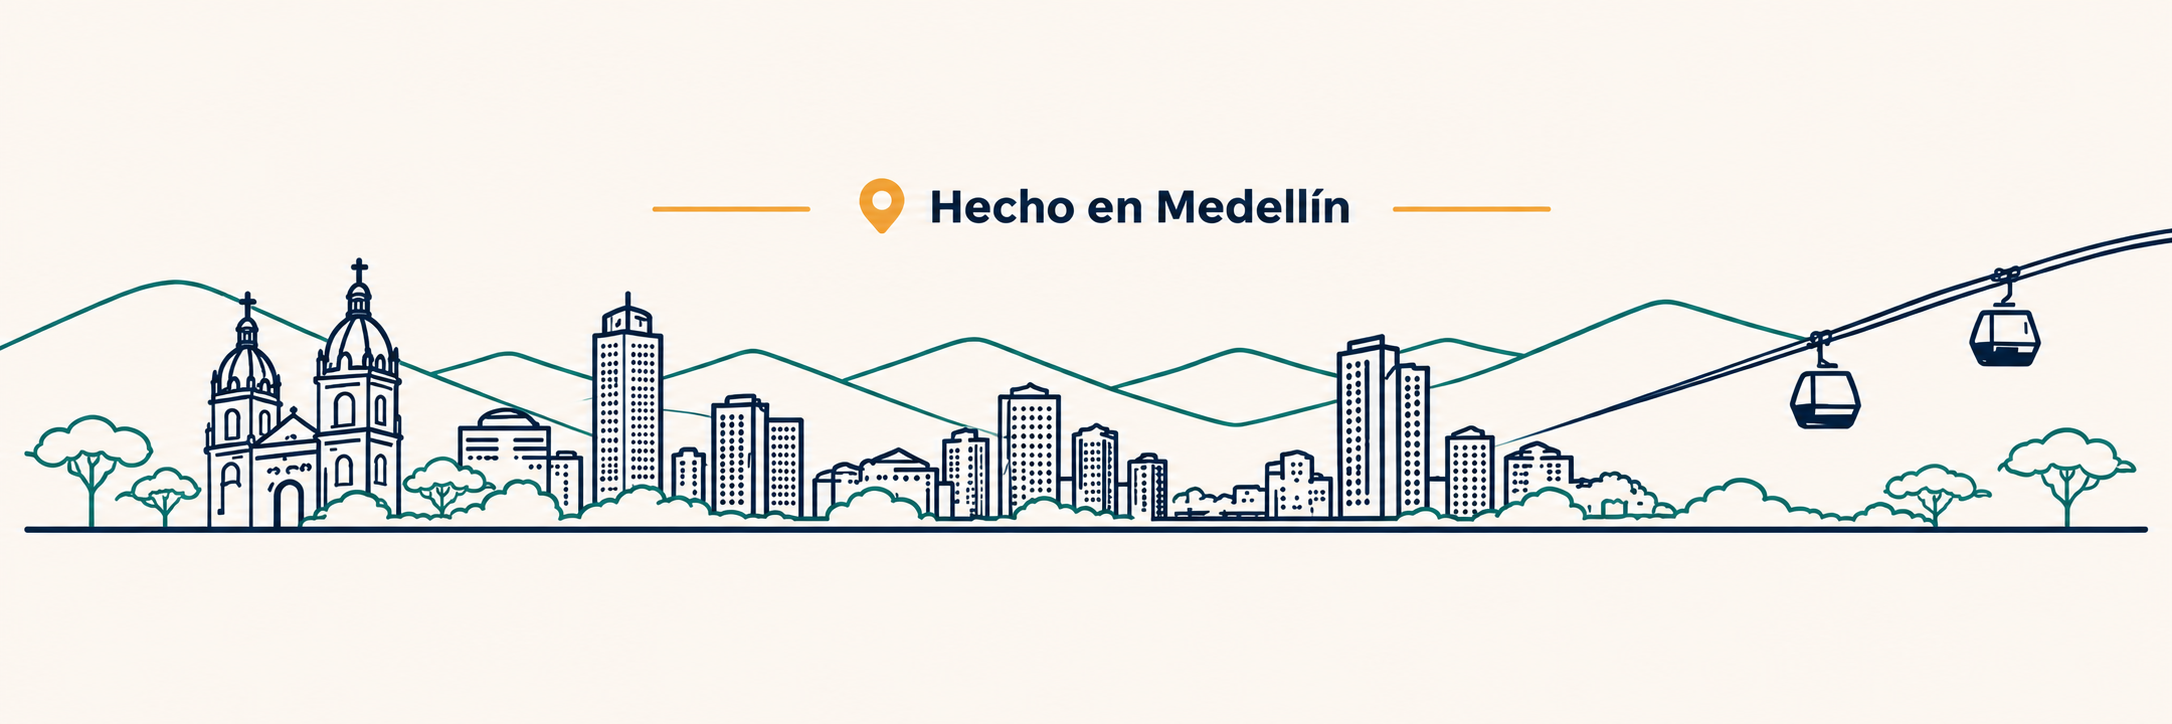
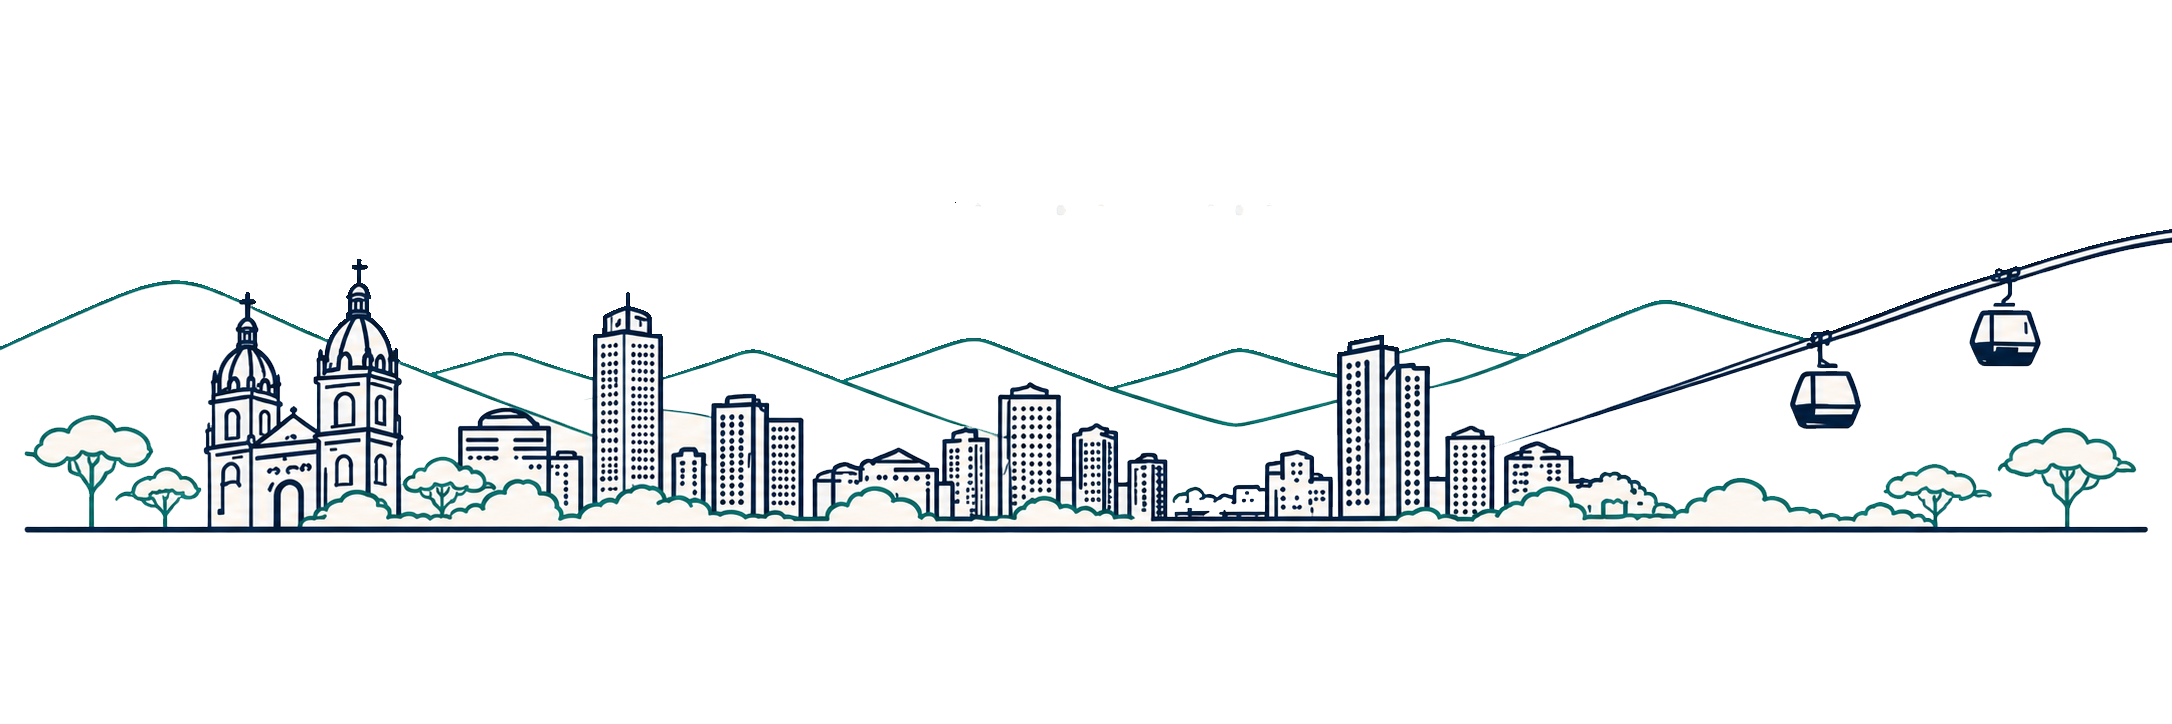
feat:agrega header a ambas páginas

diff --git a/pages/quienesSomos.html b/pages/quienesSomos.html
@@ -13,7 +13,34 @@
     <link href="/src/output.css" rel="stylesheet">
 </head>
 <body class="bg-lole-noche mx-1">
+    <header class="w-full bg-lole-noche/80 backdrop-blur-md sticky top-0 z-50 border-b border-white/5">
+       <div class="max-w-7xl mx-auto px-6 h-20 flex items-center justify-between">
+            <span class="flex shrink-0 items-center h-20 w-auto">
+                <img class="max-h-20 w-auto object-contain" src="/img/logo.png" alt="" >
+            </span>    
+            <nav class="w-full md:w-auto">
+                <ul class="hidden md:flex justify-between items-center space-x-8 text-sm font-medium text-lole-blanco">
+                    <li class="hover:text-lole-champagne cursor-pointer transition-colors"><a href="../index.html"> Inicio </a></li>
+                    <li class="hover:text-lole-champagne cursor-pointer transition-colors"><a href="/pages/quienesSomos.html">Quienes Somos</a></li>
+                    <li class="hover:text-lole-champagne cursor-pointer transition-colors"><a href="/pages/personalShopper.html">Personal Shopper</a></li>
+                    <li class="hover:text-lole-champagne cursor-pointer transition-colors"><a href="/pages/panelComerciante.html"></a>Para comerciantes</li>
+                    <li class="hover:text-lole-champagne cursor-pointer transition-colors">Como Funciona</li>
+                </ul>
+            </nav>
+            <span>
+                <button class="bg-lole-dorado text-lole-noche font-bold px-6 py-2 mt-5 rounded-full hover:bg-lole-bronce cursor-pointer transition-colors -translate-y-2">Ingresar</button>
+            </span>
+            <button id="theme-toggle"type="button" aria-label="Activar modo claro" aria-pressed="false" class="border border-lole-champagne text-lole-champagne rounded-full p-2 hover:bg-lole-champagne/10 transition-colors">
 
+                <svg xmlns="http://www.w3.org/2000/svg" fill="none"viewBox="0 0 24 24" stroke-width="1.5"stroke="currentColor" class="size-5">
+
+                    <path stroke-linecap="round" stroke-linejoin="round" d="M12 3v2.25m6.364.386-1.591 1.591M21 12h-2.25m-.386 6.364-1.591-1.591M12 18.75V21m-6.364-2.636 1.591-1.591M3 12h2.25m.386-6.364 1.591 1.591M16.5 12a4.5 4.5 0 1 1-9 0 4.5 4.5 0 0 1 9 0Z"/>
+                </svg>
+
+            </button>
+        </div>
+
+    </header>
     <section class="bg-lole-noche text-left py-5 mx-1">
         <span class="flex items-center justify-center font-body text-lole-dorado tracking-[0,3 em]">-NUESTRO EQUIPO-</span>
         <h1 class="flex items-center justify-center font-display text-4xl sm:text-5xl lg:text-6xl font-normal text-lole-blanco leading-tight mb-6">Somos <span class="text-lole-dorado">Lole-App</span></h1>
@@ -21,34 +48,35 @@
     </section>
     <section id="equipo"class="grid grid-cols-1 sm:grid-cols-2 lg:grid-cols-4 gap-8 bg-lole-noche mt-5 mx-1 py-4">
         <article class="bg-lole-profundo border border-white/10 rounded-2xl">
-            <img src="/img/Isabel.png" alt="Logo de Lole-App" class="w-1/2 h-auto mx-auto mt-1 ">
+            <img src="/img/Isabel.png" alt="Logo de Lole-App" class="w-36 h-36 rounded-full object-cover object-center border-2 border-lole-dorado mx-auto">
             <div class=" flex flex-center flex-col items-center">               
                 <h3 class="font-body font-bold text-lg text-lole-blanco">Isabel Usme</h3>
                 <span class="font-body text-lole-dorado border border-lole-dorado rounded-full px-4 py-2 mb-2">Project Manager</span>
             </div>
         </article>
         <article class="bg-lole-profundo border border-white/10 rounded-2xl">
-            <img src="/img/Sara.png" alt="Logo de Lole-App" class="w-1/2 h-auto mx-auto mt-1">
+            <img src="/img/Sara.png" alt="Logo de Lole-App" class="w-36 h-36 rounded-full object-cover object-center border-2 border-lole-dorado mx-auto">
             <div class=" flex flex-center flex-col items-center">               
                 <h3 class="font-body font-bold text-lg text-lole-blanco">Sara Ruiz</h3>
                 <span class="font-body text-lole-dorado border border-lole-dorado rounded-full px-4 py-2">Desarrolladora</span>
             </div> 
         </article>
         <article class="bg-lole-profundo border border-white/10 rounded-2xl">
-            <img src="/img/juanDa.png" alt="Logo de Lole-App" class="w-1/2 h-auto mx-auto mt-1">
+            <img src="/img/juanDa.png" alt="Logo de Lole-App" class="w-36 h-36 rounded-full object-cover object-center border-2 border-lole-dorado mx-auto">
             <div class=" flex flex-center flex-col items-center">               
                 <h3 class="font-body font-bold text-lg text-lole-blanco">Juan David Orrego</h3>
                 <span class="font-body text-lole-dorado border border-lole-dorado rounded-full px-4 py-2">Desarrollador</span>
             </div>
         </article>
         <article class="bg-lole-profundo border border-white/10 rounded-2xl">
-            <img src="/img/Lorena.png" alt="Logo de Lole-App" class="w-1/2 h-auto mx-auto mt-1">
+            <img src="/img/Lorena.png" alt="Logo de Lole-App" class="w-36 h-36 rounded-full object-cover object-center border-2 border-lole-dorado mx-auto">
             <div class=" flex flex-center flex-col items-center">               
                 <h3 class="font-body font-bold text-lg text-lole-blanco">Lorena Zapata</h3>
                 <span class="font-body text-lole-dorado border border-lole-dorado rounded-full px-4 py-2">Desarrolladora</span>
             </div>
         </article>     
     </section>
+    <script src="../src/js/theme.js" defer></script>
     <script src="src/js/theme.js" defer></script>
 </body>
 

diff --git a/pages/comparar.html b/pages/comparar.html
@@ -13,7 +13,34 @@
     <link href="/src/output.css" rel="stylesheet">
 </head>
 <body class="bg-lole-noche mx-2">
-    
+    <header class="w-full bg-lole-noche/80 backdrop-blur-md sticky top-0 z-50 border-b border-white/5">
+       <div class="max-w-7xl mx-auto px-6 h-20 flex items-center justify-between">
+            <span class="flex shrink-0 items-center h-20 w-auto">
+                <img class="max-h-20 w-auto object-contain" src="/img/logo.png" alt="" >
+            </span>    
+            <nav class="w-full md:w-auto">
+                <ul class="hidden md:flex justify-between items-center space-x-8 text-sm font-medium text-lole-blanco">
+                    <li class="hover:text-lole-champagne cursor-pointer transition-colors"><a href="../index.html">Inicio</a></li>
+                    <li class="hover:text-lole-champagne cursor-pointer transition-colors"><a href="/pages/quienesSomos.html">Quienes Somos</a></li>
+                    <li class="hover:text-lole-champagne cursor-pointer transition-colors"><a href="/pages/personalShopper.html"></a>Personal Shopper</li>
+                    <li class="hover:text-lole-champagne cursor-pointer transition-colors"><a href="/pages/panelComerciante.html"></a>Para comerciantes</li>
+                    <li class="hover:text-lole-champagne cursor-pointer transition-colors">Como Funciona</li>
+                </ul>
+            </nav>
+            <span>
+                <button class="bg-lole-dorado text-lole-noche font-bold px-6 py-2 mt-5 rounded-full hover:bg-lole-bronce cursor-pointer transition-colors -translate-y-2">Ingresar</button>
+            </span>
+            <button id="theme-toggle"type="button" aria-label="Activar modo claro" aria-pressed="false" class="border border-lole-champagne text-lole-champagne rounded-full p-2 hover:bg-lole-champagne/10 transition-colors">
+
+                <svg xmlns="http://www.w3.org/2000/svg" fill="none"viewBox="0 0 24 24" stroke-width="1.5"stroke="currentColor" class="size-5">
+
+                    <path stroke-linecap="round" stroke-linejoin="round" d="M12 3v2.25m6.364.386-1.591 1.591M21 12h-2.25m-.386 6.364-1.591-1.591M12 18.75V21m-6.364-2.636 1.591-1.591M3 12h2.25m.386-6.364 1.591 1.591M16.5 12a4.5 4.5 0 1 1-9 0 4.5 4.5 0 0 1 9 0Z"/>
+                </svg>
+
+            </button>
+        </div>
+
+    </header>
     
     
       <main>

diff --git a/src/output.css b/src/output.css
@@ -422,6 +422,9 @@
   .h-20 {
     height: calc(var(--spacing) * 20);
   }
+  .h-36 {
+    height: calc(var(--spacing) * 36);
+  }
   .h-64 {
     height: calc(var(--spacing) * 64);
   }
@@ -472,6 +475,9 @@
   }
   .w-12 {
     width: calc(var(--spacing) * 12);
+  }
+  .w-36 {
+    width: calc(var(--spacing) * 36);
   }
   .w-64 {
     width: calc(var(--spacing) * 64);
@@ -665,6 +671,10 @@
   .border {
     border-style: var(--tw-border-style);
     border-width: 1px;
+  }
+  .border-2 {
+    border-style: var(--tw-border-style);
+    border-width: 2px;
   }
   .border-t {
     border-top-style: var(--tw-border-style);
